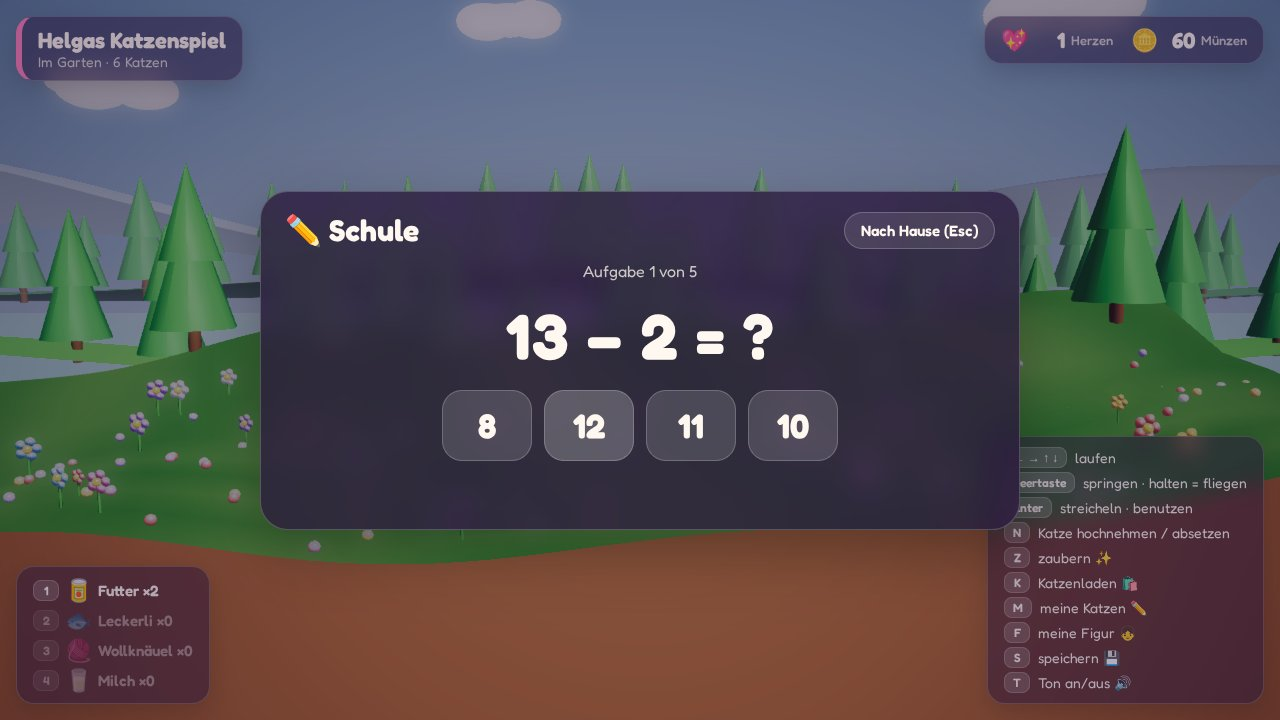
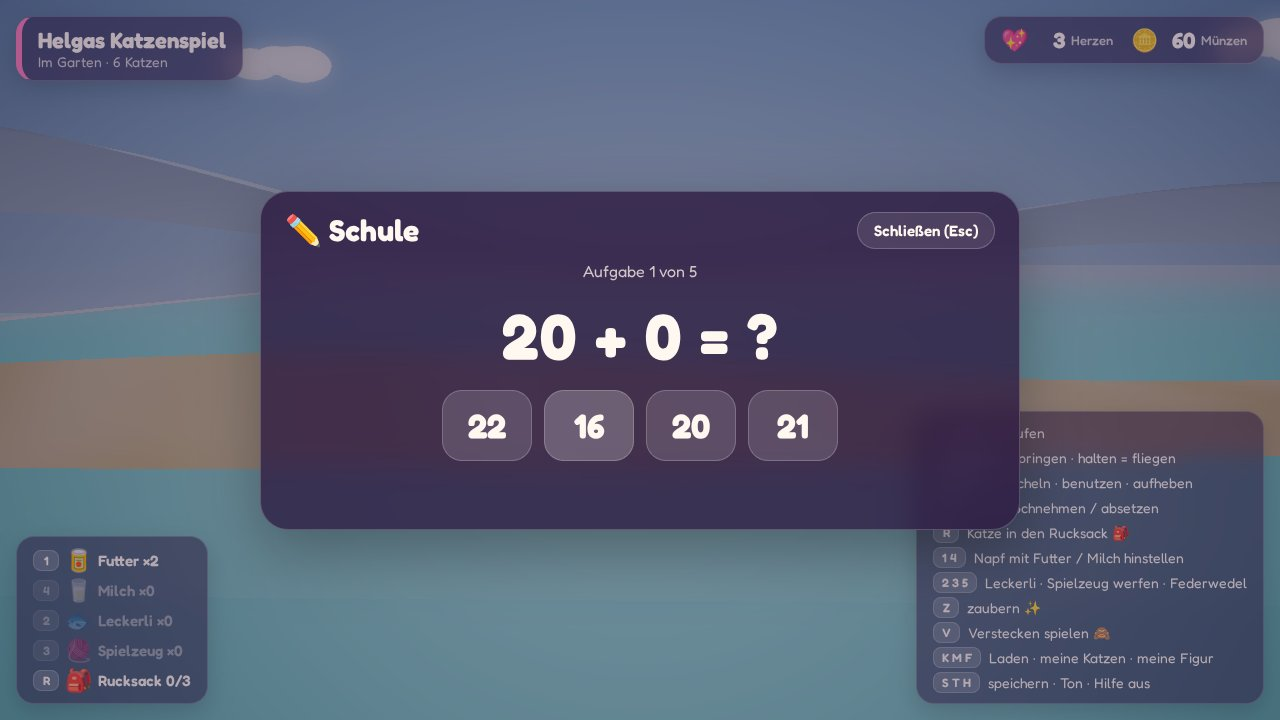
docs: describe bowls, toys, backpack, beach, hide-and-seek and cooking; new screenshots

diff --git a/README.md b/README.md
@@ -29,7 +29,7 @@ It is designed together with Helga, who decides what goes in; her wishes are col
 **Note: this project is generated with AI.**
 
 <p align="center">
-  <img src="docs/screenshots/play.jpg" alt="The girl petting the cat Mimi on a flowery meadow next to the school; pink hearts rise" width="100%">
+  <img src="docs/screenshots/play.jpg" alt="The girl with a backpack has put down a bowl; the cats come running to eat" width="100%">
 </p>
 
 <table>
@@ -38,44 +38,51 @@ It is designed together with Helga, who decides what goes in; her wishes are col
     <td width="50%"><img src="docs/screenshots/school.jpg" alt="School: a sum with four answers to choose from"></td>
   </tr>
   <tr>
+    <td width="50%"><img src="docs/screenshots/beach.jpg" alt="The beach at the end of the garden: sand, palms, a sunshade and the sea"></td>
     <td width="50%"><img src="docs/screenshots/shop.jpg" alt="The cat shop with clothes in many colours"></td>
-    <td width="50%"><img src="docs/screenshots/title.jpg" alt="Title screen: Helgas Katzenspiel, Los geht’s!"></td>
   </tr>
 </table>
 
 ## How to play
 
-| Key       | Action                                                                          |
-| --------- | ------------------------------------------------------------------------------- |
-| ← →       | walk                                                                            |
-| ↑ ↓       | walk further back / to the front; ↑ at a door goes in                           |
-| Space     | jump — **hold** to fly, let go to float down                                    |
-| Enter     | pet the cat next to you, or use what is in front of you (door, cupboard, bowls) |
-| N         | pick up the nearest cat, or put it down — you can fly with it                   |
-| Z (or Y)  | cast a spell: sparkles, and every cat nearby is delighted                       |
-| 1 / 2 / 4 | give the nearest cat food / a treat / milk (bought in the shop)                 |
-| 3         | throw the yarn ball — the cats chase it                                         |
-| K         | the cat shop: clothes, jewellery, nail polish, cat supplies, decorations, cats  |
-| M         | "Meine Katzen": name, colour (twelve, including green) and size of every cat    |
-| F         | "Meine Figur": skin, hair colour, hairstyle, eyes, mouth, freckles              |
-| S         | save the whole game in this browser (leaving the page saves too)                |
-| T         | sound on/off                                                                    |
-| Esc       | close a menu                                                                    |
+| Key       | Action                                                                               |
+| --------- | ------------------------------------------------------------------------------------ |
+| ← →       | walk                                                                                 |
+| ↑ ↓       | walk further back / to the front; ↑ at a door goes in                                |
+| Space     | jump — **hold** to fly, let go to float down                                         |
+| Enter     | pet the cat next to you, pick up a toy, or use a door, cupboard, bowl, stove, table  |
+| N         | pick up the nearest cat, or put it down — you can fly with it                        |
+| R         | put the cat in your arms into the backpack (up to three), or take one out again      |
+| 1 / 4     | put down a bowl of food / milk — the cats come running, eat in turn, and squabble    |
+| 2         | give the cat next to you a treat                                                     |
+| 3 / 5     | throw a toy (yarn ball, bell ball, toy mouse) / wave the feather wand                |
+| Z (or Y)  | cast a spell: sparkles, and every cat nearby is delighted                            |
+| V         | hide-and-seek: the cats hide behind the bushes, walk past a bush to find them        |
+| K         | the cat shop: clothes, jewellery, a backpack, cat things, kitchen things, decoration |
+| M / F     | "Meine Katzen" (name, colour, size) / "Meine Figur" (skin, hair, hairstyle, face)    |
+| S / T / H | save the whole game / sound on or off / hide the list of keys                        |
+| Esc       | close a menu                                                                         |
 
-**The world.** The garden has the school on the left, the girl's house in the middle and the cat
-shop on the right. Walk up into a door to go in. The house has a kitchen, a hall, a bathroom and a
-bedroom.
+**The world.** A long garden: the school on the left, the girl's house and the cat shop, a meadow,
+a wood with hiding bushes, and far to the right a beach with the sea, palm trees and a sunshade.
+Walk up into a door to go in. The house has a kitchen (bowls, stove, table), a hall, a bathroom and
+a bedroom with the wardrobe.
 
 **Coins.** Every three hearts a happy cat drops a coin; walk over coins to collect them. At school,
-five sums earn a German grade (1–6) and up to 30 coins. In the house, the fridge, the kitchen
-cupboard, the bath cabinet and the wardrobe hide coins that refill over time — faster the more the
-house is decorated. Cats that eat from the kitchen bowls leave a coin in the empty bowl.
+five sums earn a German grade (1–6) and up to 30 coins. Cupboards in the house hide coins that refill
+over time — faster the more the house is decorated. Cats that empty a kitchen bowl leave a coin in
+it, and finding every cat at hide-and-seek pays two coins per cat.
 
-**Cats.** Fed cats grow rounder; chasing the yarn ball slims them down again. A new cat costs 100
-coins. With four or more cats, happy grown-ups have kittens, which grow up with every heart.
+**Cats.** Food makes cats rounder; chasing toys slims them down again. Thrown toys stay on the floor,
+and cats play with them by themselves. A new cat costs 100 coins. With four or more cats, happy
+grown-ups have kittens, which grow up with every heart.
 
-**Sound.** Every action has a small synthesized sound — meows, purrs, coin plings, sparkles, a
-doorbell, a shop bell — made with the Web Audio API, no sound files.
+**Cooking.** Buy groceries (tomato, leek, egg, bread, cheese, apple), a pan, a pot and cutlery. At
+the stove, cook a fried egg, an omelette, leek soup, tomato salad, a cheese sandwich or apple slices;
+eat it at the table, and for a minute the girl can fly twice as high.
+
+**Sound.** Every action has a small synthesized sound — meows, purrs, a squabbling hiss, coin
+plings, sparkles, a doorbell, a shop bell — made with the Web Audio API, no sound files.
 
 ## Setup
 
@@ -148,7 +155,7 @@ Single steps: `npm test`, `npm run coverage`, `npm run lint`, `npm run typecheck
 
 ```text
 src/core/    game rules without Babylon or the DOM (unit tested): world layout, cats, shop,
-             school, the girl's look, saving
+             school, kitchen, the girl's look, saving
 src/render/  Babylon.js scene: garden, house interior, shop, school, girl, cats, effects
 src/ui/      HUD, title screen, menus (shop, cats, figure, school), German texts, storage
 src/audio.ts synthesized sound effects

diff --git a/visions.md b/visions.md
@@ -49,6 +49,15 @@ Kampf, kein Krieg.
 24. Spielzeug für die Katzen, mit den Katzen spielen.
 25. Wenn die Katzen viel fressen, werden sie runder und größer.
 
+- Füttern sieht man: Das Mädchen stellt einen Napf hin, alle Katzen kommen angerannt, wollen schnell
+  fressen und streiten sich manchmal.
+- Spielzeug (Wollknäuel, Ball, Maus, Federwedel) liegt einfach auf dem Boden; die Katzen spielen damit.
+- Ein Rucksack (10 Münzen) zum Anziehen, sichtbar am Mädchen; Katzen hochheben und hineinstecken.
+- Frisuren: ein Zopf, zwei Zöpfe, Pippi Langstrumpf, ganz kurz; Haarfarben blond, braun, schwarz …;
+  Katzenohren-Haarreif oder anderer Haarreif.
+- Ein viel größeres Spielfeld ohne Absperrung — weit weg vom Haus bis an den Strand. Verstecken spielen.
+- Im Laden Lebensmittel (Tomaten, Lauch, Eier …), Bratpfanne und Besteck kaufen; kochen und essen.
+
 ## Münzen & Schule
 
 26. In der Schule Rechenaufgaben lösen; gut rechnen und gute Noten bringen Münzen.
@@ -89,3 +98,14 @@ Kampf, kein Krieg.
 - [x] Deko fürs Haus: Kratzbaum, Kissen, Blumentöpfe, Katzenbild, Herzteppich, Lichterkette.
 - [x] Niedliche Geräusche für alle Aktionen (T schaltet den Ton aus).
 - [x] Docker-Image (nginx), Veröffentlichung auf ghcr, Pushen nach GitHub und Releases.
+- [x] Näpfe (1 Futter, 4 Milch): Katzen rennen hin, fressen nacheinander, streiten manchmal.
+- [x] Spielzeug bleibt liegen (Wollknäuel, Glöckchenball, Spielzeugmaus), Enter hebt es auf;
+      Federwedel (5).
+- [x] Rucksack: kaufen, anziehen, sichtbar; R steckt bis zu drei Katzen hinein.
+- [x] Frisuren Ein Zopf, Pippi Langstrumpf, Ganz kurz; Haarreif ohne Ohren und Blumen-Haarreif.
+- [x] Riesige Welt: Wiese, Wald, Strand mit Meer, Palmen und Sonnenschirm.
+- [x] Verstecken (V) hinter den Büschen, Münzen fürs Finden.
+- [x] Kochen: Lebensmittel und Küchensachen im Laden, sechs Rezepte am Herd, am Tisch essen,
+      danach doppelt so hoch fliegen.
+- [x] Fehler aus der Selbstprüfung behoben (Wände, Türen im Flug, Schul-Timer, Tastatur in Menüs,
+      Lautstärke, Schilder, Speichern der Zähler).

diff --git a/AGENTS.md b/AGENTS.md
@@ -36,9 +36,11 @@ scripts/docker-check.sh            # Docker-Image bauen und prüfen
   - `world.ts` Weltaufbau (Garten, Haus-Inneres, Gebäude, Türen, Schränke),
   - `game.ts` Mädchen, Katzen, Münzen, Füttern, Tragen, Babys,
   - `shop.ts` Katalog und Kleiderschrank, `look.ts` Aussehen des Mädchens,
-  - `cats.ts` Katzenfarben und -namen, `school.ts` Rechenaufgaben und Noten, `save.ts` Speichern.
-- `src/render/` — Babylon-Szene: Landschaft, Haus, Hausinneres, Laden, Schule, Mädchen, Katzen, Effekte.
-- `src/ui/` — DOM-Overlay (HUD, Startbildschirm, Menüs für Laden, Katzen, Figur, Schule), Texte,
+  - `cats.ts` Katzenfarben und -namen, `school.ts` Rechenaufgaben und Noten, `kitchen.ts` Rezepte,
+    `save.ts` Speichern (Version 2; Version 1 wird noch gelesen).
+- `src/render/` — Babylon-Szene: Landschaft mit Wald und Strand, Haus, Hausinneres, Laden, Schule,
+  Mädchen, Katzen, Näpfe und Spielzeug (`props.ts`), Effekte.
+- `src/ui/` — DOM-Overlay (HUD, Startbildschirm, Menüs für Laden, Katzen, Figur, Schule, Kochen), Texte,
   CSS, `localStorage`.
 - `src/audio.ts` — niedliche Geräusche, synthetisch mit Web Audio.
 - `src/app.ts` — Tastatur, Spielschleife, verbindet alles.
